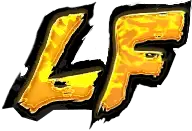
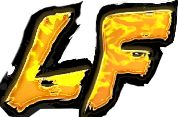
details image changes

diff --git a/styles.css b/styles.css
@@ -1338,8 +1338,8 @@ span.items {
 .rarity-indicator {
     bottom: 0;
     left: 0;
-    width: 25px;
-    height: 25px;
+    width: 20px;
+    height: 20px;
 }
 
 #toggle-details-button {
